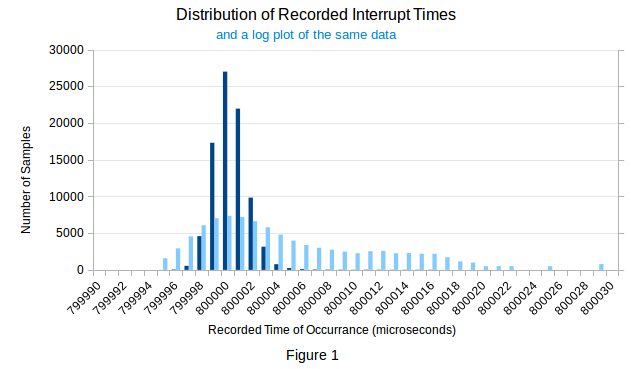
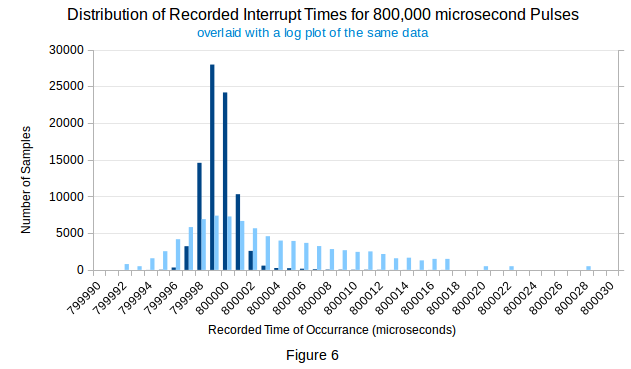
Removed initialization of sysDelay. Doc updates.

diff --git a/client/pps-client.h b/client/pps-client.h
@@ -63,14 +63,12 @@
 
 #define ADJTIMEX_SCALE 65536.0			//!< Frequency scaling required by \b adjtimex().
 
-#define INTERRUPT_LATENCY 16			//!< Default interrupt latency in microseconds.
+#define INTERRUPT_LATENCY 10			//!< Default interrupt latency in microseconds.
 
 #define RAW_ERROR_ZERO  20				//!< Index corresponding to rawError == 0 in detectDelayPeak().
 #define MIN_PEAK_RATIO 0.05				//!< Minimum ratio to detect a second peak in detectDelayPeak().
 #define MAX_VALLEY_RATIO 0.99			//!< Maximum ratio to detect a valley before the second peak in detectDelayPeak().
 #define RAW_ERROR_DECAY 0.98851			//!< Decay rate for rawError samples (1 hour half life)
-#define MAX_PEAK_DELAY 15				//!< Look for a delay peak less than this value. If larger not a delay peak.
-#define MAX_PEAK_TO_TAIL_DELAY 7		//!< Maximum extent of a tail from the peak
 
 #define INTERRUPT_LOST 15				//!< Number of consequtive lost interrupts at which a warning starts
 
@@ -157,7 +155,7 @@ struct G {
 	int intrptError;								//!< Set equal to "intrptDelay - sysDelay" in getInterruptDelay().
 	unsigned int intrptCount;						//!< Advancing count of intrptErrorDistrib[] entries made by detectDelayPeak().
 	double delayMedian;								//!< Median of G.intrptDelay values calculated in getInterruptDelay().
-	bool medianIsSet;								//!< Set to "true" when G.delayMedian has been initialized.
+//	bool medianIsSet;								//!< Set to "true" when G.delayMedian has been initialized.
 	int	sysDelay;									//!< System time delay between reception and response to an external interrupt.
 
 													//!< Calculated as the one-minute median of G.intrptDelay values in getInterruptDelay().
@@ -224,8 +222,6 @@ struct G {
 
 	bool doCalibration;
 	bool showRemoveNoise;
-
-	bool fixDelayPeak;
 
 	int recIndex;
 	int recIndex2;

diff --git a/client/pps-client.cpp b/client/pps-client.cpp
@@ -80,7 +80,6 @@ void initialize(bool verbose){
 	g.hardLimit = HARD_LIMIT_NONE;
 	g.doCalibration = true;
 	g.exitOnLostPPS = true;
-	g.fixDelayPeak = true;
 
 	g.t3.modes = ADJ_FREQUENCY;			// Initialize system clock
 	g.t3.freq = 0;						// frequency offset to zero.
@@ -720,13 +719,13 @@ int removeIntrptNoise(int intrptError){
 		return 0;
 	}
 
-	if (! g.medianIsSet && g.hardLimit <= HARD_LIMIT_4){	// Re-initialize g.delayMedian
-		g.medianIsSet = true;								// one time on raw g.intrptDelay
-		g.delayMedian = g.intrptDelay;						// to speed up g.sysDelay acquisition.
-
-		sprintf(g.msgbuf, "One time re-initialize: g.delayMedian set to %d\n", g.intrptDelay);
-		bufferStatusMsg(g.msgbuf);
-	}
+//	if (! g.medianIsSet && g.hardLimit <= HARD_LIMIT_4){	// Re-initialize g.delayMedian
+//		g.medianIsSet = true;								// one time on raw g.intrptDelay
+//		g.delayMedian = g.intrptDelay;						// to speed up g.sysDelay acquisition.
+//
+//		sprintf(g.msgbuf, "One time re-initialize: g.delayMedian set to %d\n", g.intrptDelay);
+//		bufferStatusMsg(g.msgbuf);
+//	}
 
 	zeroError = clampJitter(intrptError);					// Recover the time error by
 															// limiting away the jitter.

diff --git a/client/pps-client.md b/client/pps-client.md
@@ -26,7 +26,7 @@ This project is the reference design for a general technique that provides high 
 
 Although the goal of high accuracy computer timekeeping, evident from even a cursory search on the internet, has been around since at least the introduction of the Network Time Protocol, general support for high precision timekeeping over the internet is still not available. However, GPS reception is available everywhere and in conjunction with a daemon like pps-client can be used for that purpose now. Indeed, an internet search found commercial GPS repeaters that can bring GPS reception indoors with local coverage up to at least 30 meters.
 
-The ability to time synchronize multiple computers is particularly important for small embedded processors like the RPi that can be used to used to construct distributed systems with a large number of individual cores. This works very well when the individual RPis are time synchronized because that makes applications possible that would otherwise be difficult or impractical. One example is a multiple video camera system that synchronizes the video frames from the individual RPis each handling a different camera. In this kind of application a robot with twin cameras for eyes could easily synchronize the cameras from the system time on each RPi.
+The ability to time synchronize multiple computers with microsecond accuracy is particularly important for small embedded processors like the RPi that can be used to used to construct distributed systems with a large number of individual cores. This works very well when the individual RPis are time synchronized because that makes applications possible that would otherwise be difficult or impractical. One example is a multiple video camera system that synchronizes the video frames from the individual RPis each handling a different camera. In this kind of application a robot with twin cameras for eyes could easily synchronize the cameras from the system time on each RPi.
 
 There are other uses for time synchronized computers: Network administrators would find it useful to have the possibility of making one-way, single-path time measurements of network delays. That becomes possible if the computers at the endpoints are accurately synchronized to GPS time - which is rarely the case at present. Also, certain kinds of scientific applications require accurate synchronization to an external clock. One sometimes of interest to astronomers is [occultation timing](https://en.wikipedia.org/wiki/Occultation). Another is collection of distributed seismic data in the study of earthquakes or for substratum mapping. There are many others.
 
@@ -56,7 +56,7 @@ The situation with regard to jitter and latency (noise) in the PPS interrupt res
 
 2. an approximately Gaussian random component introduced by random jitter partially in interrupt response but predominently [flicker noise](https://en.wikipedia.org/wiki/Flicker_noise) in the system clock oscillator and
 
-3. intermittently occurring "spikes" of long duration latency.
+3. sporadically occurring "spikes" of long duration latency.
 
 The constant and average random components of interrupt latency completely characterize `sysDelay` and are determined by incorporating the interrupt latency measurement into the pps-client software. The pps-client driver that records the reception time of a PPS interrupt also has the ability to measure the initiation and reception times of a test interrupt triggered across a pair of GPIO pins. The time difference in those is used to determine the PPS interrupt latency for a particular RPi 2 and Linux kernel. The median of the latency measurement then becomes the applied `sysDelay` value. This cancels the median of the delay from the PPS rising edge generated by the hard limiting in the controller.
 
@@ -67,7 +67,7 @@ The long duration latency of Component 3 is treated as [noise that is to be remo
 
 Figure 2 is data that was captured from an RPi test unit over 24 hours to the file `/var/local/pps-jitter-distrib` by setting `jitter-distrib=enable` in `/etc/pps-client.conf` and is typical data that is easily generated on any RPi.
 
-Figure 2 shows a delay peak at zero (relative to `sysDelay`) followed by infrequent sporadic interrupt delays in the log plot. These delays are caused by other processes running in the Linux kernel. Even though pps-client is a real-time process, the PPS interrupt does not always receive an immediate response. The situation is much better on the 4.0 kernel than on previous kernels. On real-time configured 3.0 kernels `sysDelay` was on the order of 25 usecs. On the stock 4.0 kernel `sysDelay` has shrunk to about 8 usecs. But delays caused by other running processes continue to be a problem. The [Linus Real-Time Working Group](http://elinux.org/Real_Time_Working_Group) has been making steady progress toward eliminating real-time performance issues of this kind. Hopefully that progress will continue. Clearly, the pps-client controller can [synchronize the time precisely enough](AccuracyVerifyDistrib.png). Evidently, the most significant impdediment to precisely timing external events is Linux kernel interrupt latency.
+Figure 2 shows a delay peak at zero (relative to `sysDelay`) followed by infrequent sporadic interrupt delays in the log plot. These delays are caused by other processes running in the Linux kernel. Even though pps-client is a real-time process, the PPS interrupt does not always receive an immediate response. The situation is much better on the 4.0 kernel than on previous kernels. On real-time configured 3.0 kernels `sysDelay` was on the order of 25 usecs. On the stock 4.0 kernel `sysDelay` has shrunk to about 8 usecs. But delays caused by other running processes continue to be a problem. The [Linus Real-Time Working Group](http://elinux.org/Real_Time_Working_Group) has been making steady progress toward eliminating real-time performance issues of this kind. Hopefully that progress will continue. Clearly, the pps-client controller can [synchronize the time precisely](InterruptTimerDistrib.png). Evidently, the most significant impdediment to precisely timing external events is sporadic Linux kernel interrupt latency.
 
 ### Random Noise {#random-noise}
 
@@ -77,9 +77,9 @@ The random noise component at zero in Figure 2a is a combination of randomness i
 
 The Test Interrupt Delay distribution was captured in the file `/var/local/pps-intrpt-distrib` by setting `interrupt-distrib=enable` in `/etc/pps-client.conf`.
 
-The two different random components are inseparable in the jitter distribution (displayed in the Figure 2b as PPS Interrupt Delay). However, in the region below 8 microseconds where interrupt latency spikes are not present, the jitter distribution can be compared with the Test Interrupt Delay distribution which is a system response to a self-generated interrupt that is measured totally within the system, making it blind to flicker noise in the system clock oscillator. Consequently, it is representative of the randomness in the system response to an interrupt that is also present in the jitter. It shows a distribution with a standard deviation (SD) of about half a microsecond. 
+The two different random components are inseparable in the jitter distribution (displayed in the Figure 2b as PPS Interrupt Delay). However, in the region below 8 microseconds where interrupt latency spikes are not present, the jitter distribution can be compared with the Test Interrupt Delay distribution (TID). The TID is a system response to a self-generated interrupt that is measured totally within the system. That makes it blind to flicker noise in the system clock oscillator. Consequently, it is representative of the randomness in the system response to an interrupt that is also present in the jitter. It shows a distribution with a standard deviation (SD) of about half a microsecond. 
 
-That is a high estimate of the Test Interrupt Delay distribution SD. The true value is probably lower because there was some widening of the distribution because `sysDelay` was not constant over the 24-hour data collection interval. In this specific case, `sysDelay` took on two values over the test period with 60,200 samples at 8 usecs and 25,660 at 9 usecs. In tests where `sysDelay` takes on more than two values the interrupt delay SD could incorrectly look wider than this.
+That estimate is high. The true value is probably lower because there was some widening of the distribution because `sysDelay` was not constant over the 24-hour data collection interval. In this specific case, `sysDelay` took on two values over the test period with 60,200 samples at 8 usecs and 25,660 at 9 usecs. In tests where `sysDelay` takes on more than two values the TID SD could incorrectly look wider than this.
 
 In comparison, the PPS Interrupt Delay distribution SD is estimated at slightly over 1 microsecond in Figure 2b. 
 
@@ -341,7 +341,7 @@ But since the [feedforward compensator](#feedforward-compensator) determines the
 
 To minimise the effects of flicker noise and latency, accuracy testing consists of making a large number of independent time interval measurements and then statistically evaluating the results. This circumvents flicker noise in the oscillators of both the RPi Unit Under Test (UUT) and the RPi unit used to provide timing pulses. The pulse-generator utility runs in two-pulse mode on an RPi identified as RPi-1. The interrupt-timer utility is used on the UUT, RPi-2, to time the reception of pulse 2 from pulse-generator while pulse 1 provides the PPS signal to the UUT.
 
-Timing pulses are received each second by interrupt-timer on the UUT. In order to get low-latency timings it is necessary for interrupt-timer to sleep until just before the expected time of arrival of pulse 2. So that technique is used. Validation is successful if the average time of reception of pulse 2 is equal to the time difference between the times of pulse 2 and pulse 1 with sufficiently small error.
+Timing pulses are received each second by interrupt-timer on the UUT. In order to get low-latency timings it is necessary for interrupt-timer to sleep until just before the expected time of arrival of pulse 2. So that technique is built into interrupt-timer. Validation is successful if the average time of reception of pulse 2 is equal to the time difference between the times of pulse 2 and pulse 1 with sufficiently small error.
 
 In these tests, GPIO_23 and GPIO_25 are used for pulse 1 and pulse 2, respectively. Pulse 1 provides the PPS signal to the UUT and pulse 2 goes to the GPIO input that is timed by interrupt-timer. The wired connections between the RPi units look like this:
 
@@ -362,10 +362,10 @@ Then interrupt-timer is started in timing collection mode and is allowed to coll
 
     RPi-2:~ $ sudo interrupt-timer
 
-This test as described above was performed with a pair of RPi processors and RPi-2 was allowed to collect timings over a period of 24 hours with the result shown in Figure 6.
+This test as described above was performed with a pair of RPi processors under low system load. RPi-2 was allowed to collect timings over a period of 24 hours with the result shown in Figure 6. The test result is believed to be typical of what will be obtained with similar processors under similar conditions.
 
-![Accuracy Verification](client/figures/AccuracyVerifyDistrib.png)
+![Accuracy Verification](client/figures/InterruptTimerDistrib.png)
 
-The distribution shows the average recorded pulse time to be about a half microsecond lower than the ideal time of 800,000 microseconds. As expected, the peak in the timing is broadened by the combined flicker noise in the two RPi system clocks. But the peak is not wide enough to affect the average pulse time deduced from the shape of the main peak. Notice from the log plot that pulses were received with a delay as much as 30 usecs because of Linux system interrupt latency.
+The distribution shows the average recorded pulse time to be about a half microsecond lower than the ideal time of 800,000 microseconds. As expected, the peak in the timing is broadened by the combined flicker noise in the two RPi system clocks. But the peak is not wide enough to affect the average pulse time deduced from the shape of the main peak. The log plot shows that pulses were received with a delay as much as 28 usecs because of sporadic Linux system interrupt latency.
 
 
